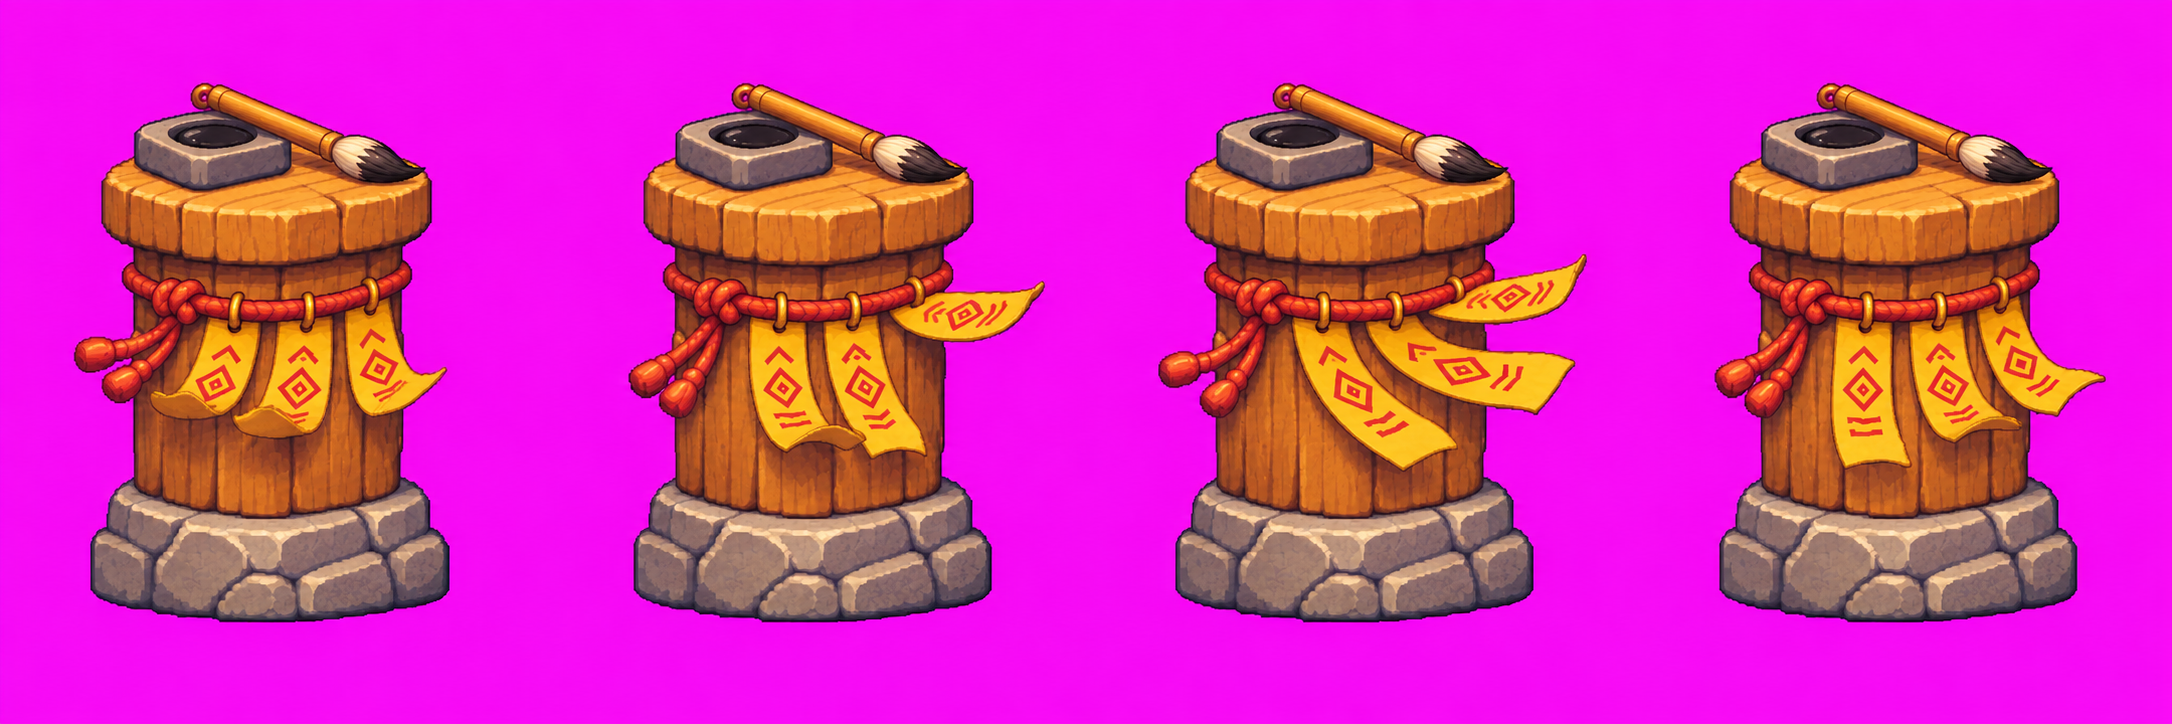
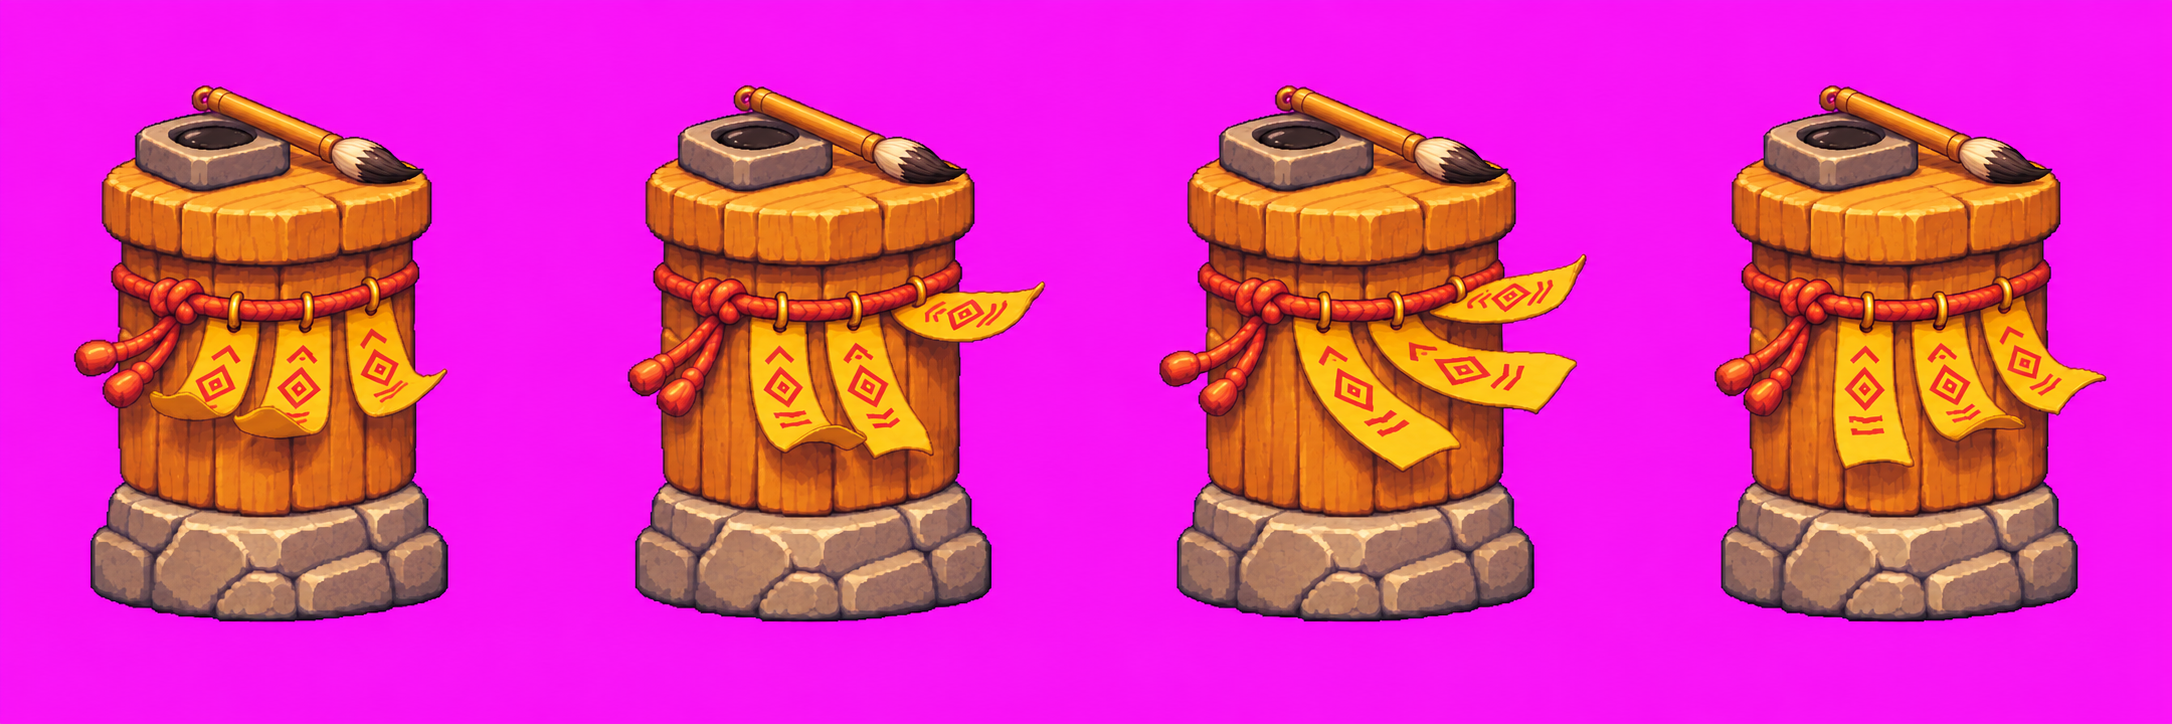
art(batch2): revise locked proportions of talisman__t1__attack.png

diff --git a/idle-td-art/batch2/ORDER-B2.md b/idle-td-art/batch2/ORDER-B2.md
@@ -116,7 +116,6 @@ Redraw image B frame by frame using the tier <N> design from image A: EXACTLY th
 | `images/frost__t1__attack.png` | 2172×724 | 4 | 寒冰燈塔 1 階攻擊四格：晶體後縮、升高變亮、向右推與復位，燈座不動。 |
 | `images/talisman__t2__stand.png` | 1254×1254 | 1 | 符咒塔 2 階：紅漆金箍柱、六張黃符、青銅墨盂與朝右毛筆。 |
 | `images/talisman__t3__stand.png` | 1254×1254 | 1 | 符咒塔 3 階：金黑漆柱、盤柱玉龍、兩排黃紫符紙與懸浮毛筆。 |
-| `images/talisman__t1__attack.png` | 2172×724 | 4 | 符咒塔 1 階攻擊四格：三張黃符後揚、抬起、向右展扇與回落；紙根維持連接。 |
 | `images/talisman__t2__attack.png` | 2172×724 | 4 | 符咒塔 2 階攻擊四格：六張黃符後揚、抬起、右展、回落；已修正初稿符紙缺張。 |
 | `images/talisman__t3__attack.png` | 2172×724 | 4 | 符咒塔 3 階攻擊四格：兩排黃紫符紙共八張，後揚、抬起、右展與回落；毛筆與流蘇起伏。 |
 | `images/furnace__t1__attack.png` | 2172×724 | 4 | 09:35 返工修正版：爐身、三足與底座固定，只動爐蓋與炮口；第 4 格關蓋回站立。 |
@@ -127,6 +126,7 @@ Redraw image B frame by frame using the tier <N> design from image A: EXACTLY th
 | `images/frost__t3__attack.png` | 2172×724 | 4 | 09:35 返工修正版：大水晶球保持四格同尺寸，只做左移、上浮、右推、回位；雪花移動，第 4 格回到站立。 |
 | `images/crossbow__t1__attack.png` | 2172×724 | 4 | 10:20 返工修正版：依站立重新生成固定木架、塔腳與平台；只動弩弦、弩身和旗子。 |
 | `images/bell__t3__attack.png` | 2172×724 | 4 | 10:20 返工修正版：降低偏高塔身、保留底座與塔寬；魚槌後擺、撞鐘、回彈及復位，固定亭架。 |
+| `images/talisman__t1__attack.png` | 2172×724 | 4 | 10:20 返工修正版：加寬偏窄木柱，底座、總高與桌面固定；符紙四格維持不同飄動。 |
 
 原檔 SHA-256：
 
@@ -149,7 +149,6 @@ Redraw image B frame by frame using the tier <N> design from image A: EXACTLY th
[7 lines of base64/hex data omitted]
@@ -160,6 +159,7 @@ Redraw image B frame by frame using the tier <N> design from image A: EXACTLY th
[4 lines of base64/hex data omitted]
 
 ## 意見與待辦
 
